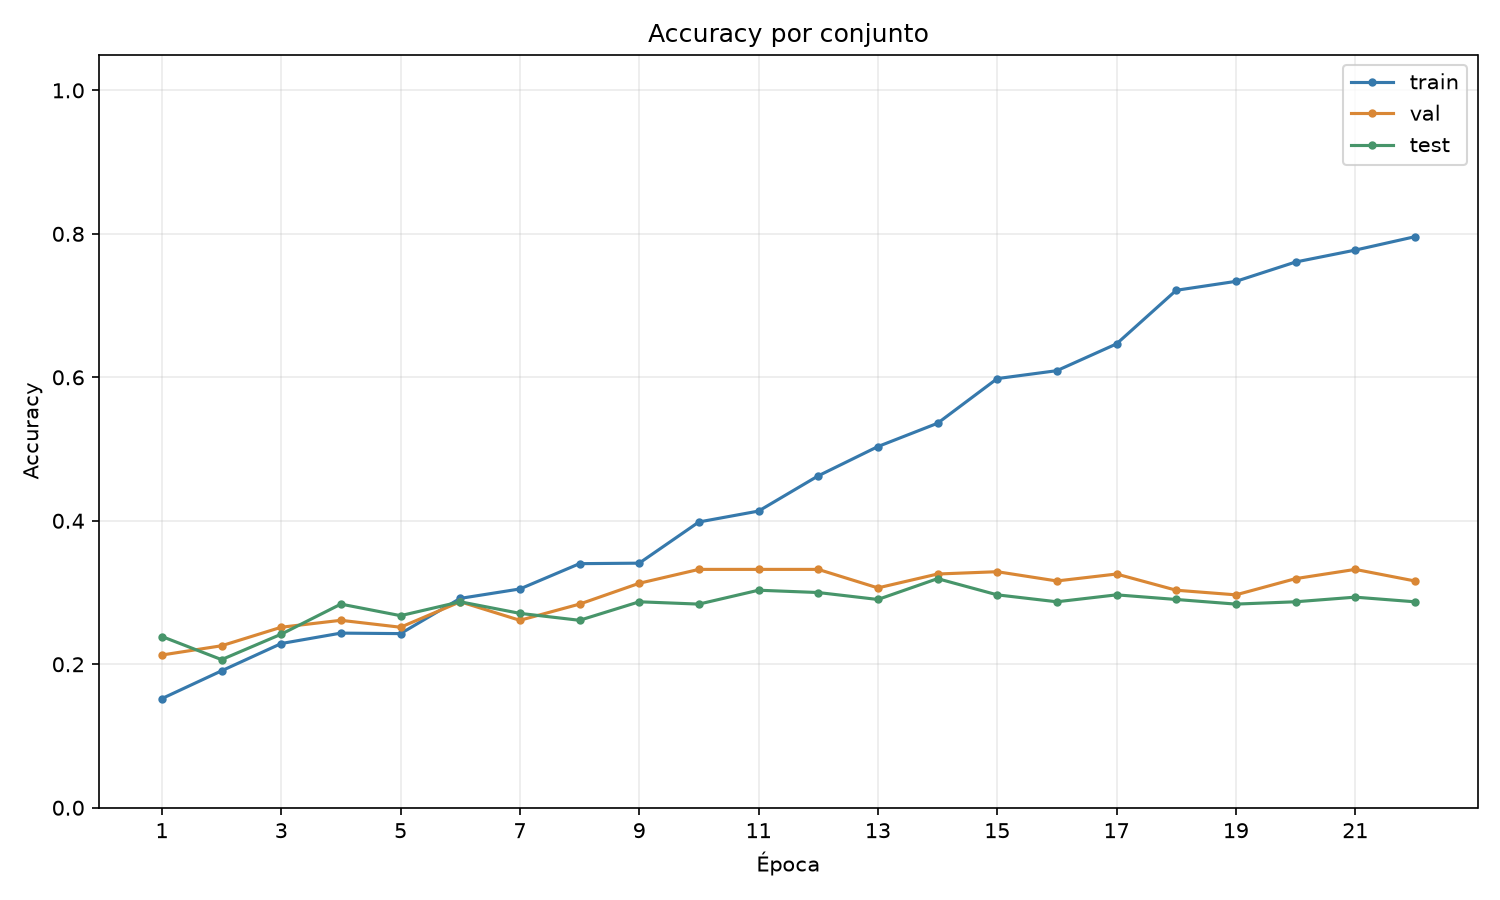
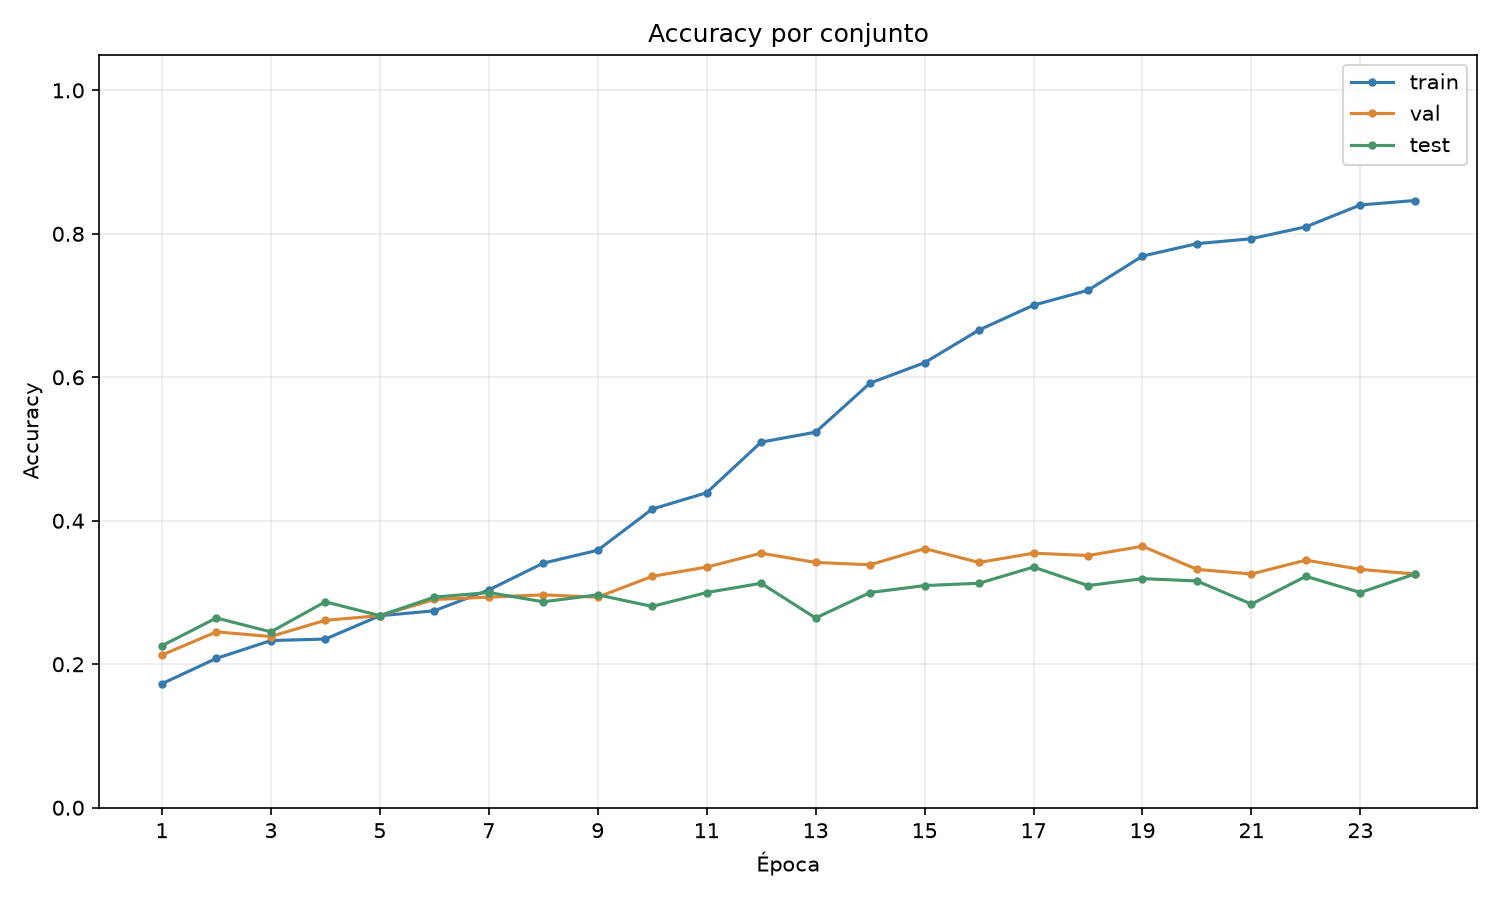
fix: arregla aleatoriedad al correr con cuda

diff --git a/src/models/cnn_v1.py b/src/models/cnn_v1.py
@@ -392,6 +392,8 @@ def train_model_v1(input_dir=INPUT_DIR, sets_dir=SETS_DIR, output_dir=OUTPUT_DIR
     # TensorFlow asigna automáticamente las operaciones compatibles a la GPU.
     device = "GPU" if tf.config.list_logical_devices("GPU") else "CPU"
     tf.keras.utils.set_random_seed(seed)
+    # La semilla fija la aleatoriedad; el determinismo fija los cálculos.
+    tf.config.experimental.enable_op_determinism()
     splits, class_names = load_splits(input_dir, sets_dir)
     output_dir = Path(output_dir)
     output_dir.mkdir(parents=True, exist_ok=True)

diff --git a/src/models/cnn_v2.py b/src/models/cnn_v2.py
@@ -180,6 +180,8 @@ def train_model_v2(input_dir=INPUT_DIR, sets_dir=SETS_DIR, output_dir=OUTPUT_DIR
             por combinación). Las épocas se numeran
             desde 1. Solo se exportan los PNG, no el diccionario.
     """
+    # Se aplica a toda la búsqueda; cada candidato reinicia su semilla.
+    tf.config.experimental.enable_op_determinism()
     learning_rates = tuple(learning_rates)
     dropout_rates = tuple(dropout_rates)
     pool_sizes = tuple(sorted(tuple(size) for size in pool_sizes))

diff --git a/README.md b/README.md
@@ -146,6 +146,20 @@ actuales y ejecutar el entrenamiento puede sobrescribir los PNG existentes.
 En VS Code abre el proyecto conectado a WSL y selecciona
 `/home/yaelc/.venvs/ccm/bin/python` como intérprete.
 
+### Repetibilidad del entrenamiento
+
+Ambas CNN activan `tf.config.experimental.enable_op_determinism()` y fijan
+la semilla con `tf.keras.utils.set_random_seed(seed)` (42 por defecto).
+La CNN v2 reinicia la semilla antes de entrenar cada candidato. Esto permite
+repetir los resultados con los mismos datos, hiperparámetros, dispositivo y
+entorno de software. No garantiza resultados idénticos entre CPU y GPU ni
+entre versiones distintas de las dependencias.
+
+El determinismo puede reducir la velocidad de entrenamiento. Si una operación
+no dispone de implementación determinista, TensorFlow puede lanzar
+`UnimplementedError`. La configuración se aplica tanto desde `main.py` como
+al ejecutar cada CNN directamente.
+
 ### Diagnóstico
 
 - Si `venv` falla en `ensurepip` o muestra `Operation not permitted` dentro de
